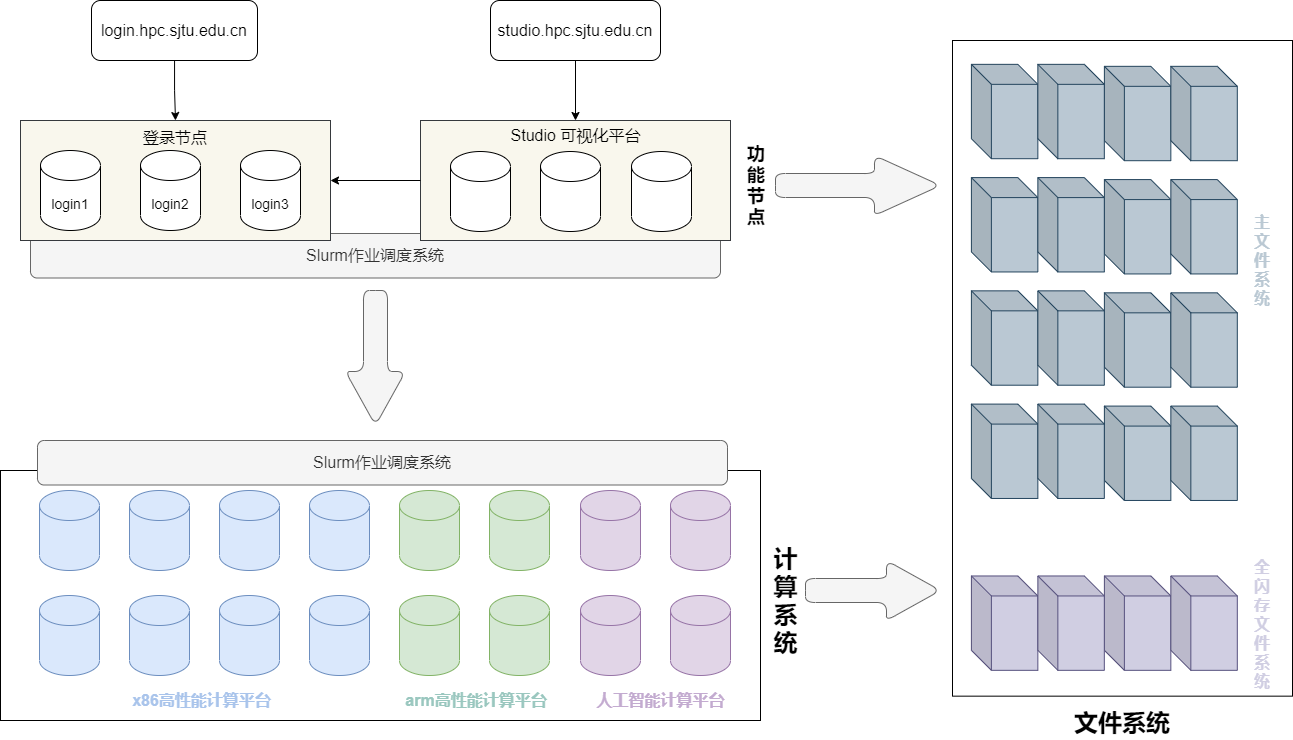
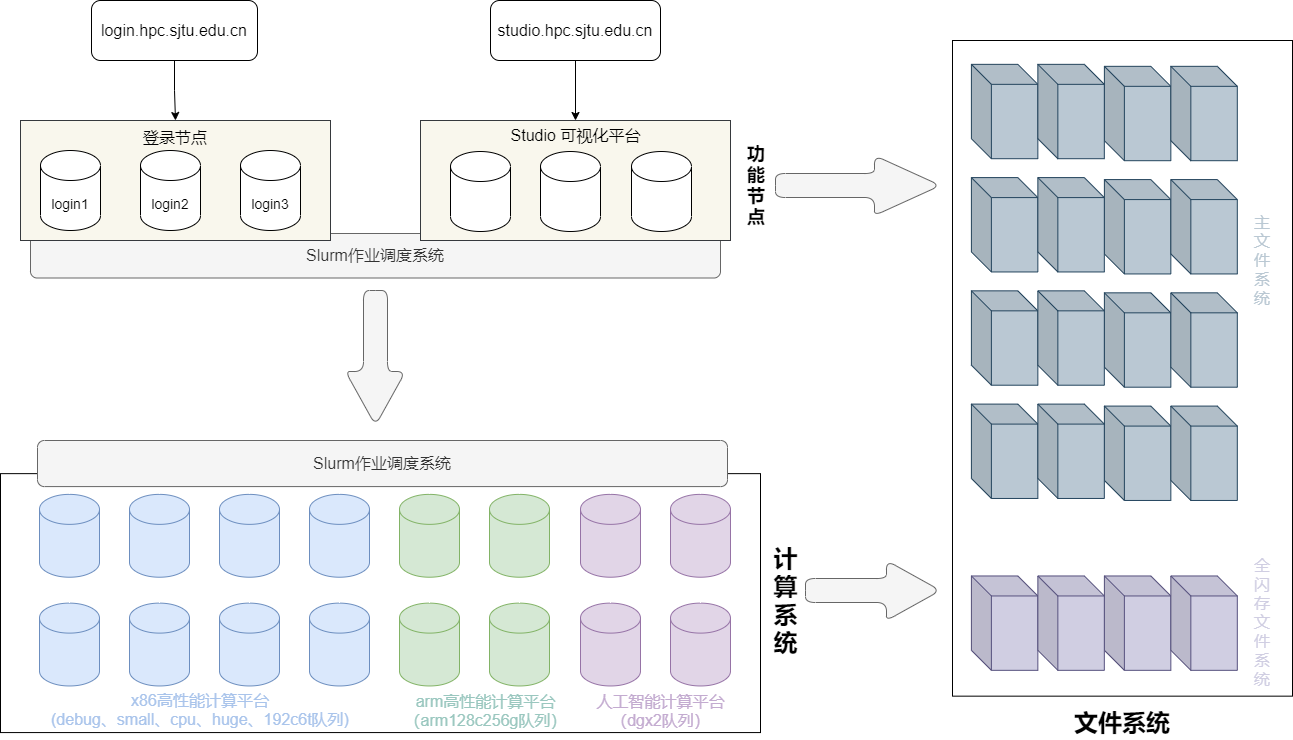
modify system 	modified:   docs/img/system.png 	modified:   docs/system/computesystem.rst 	modified:   docs/system/filesystem.rst

diff --git a/docs/system/computesystem.rst b/docs/system/computesystem.rst
@@ -10,27 +10,31 @@
 
 高性能计算平台原先由 656 台双路节点 x86 服务器组成，每台服务器配备 40 核（2.5GHz）、192G 内存（12通道 DDR4 2666），共计 26240 个 CPU 核、48T 内存。 双精度理论峰值性能达到了 2.1 PFLOPS，计算节点之间使用 100 Gbps 的 Intel OmniPath 互联，是国内高校和上海地区最快的超算之一。作业系统中调用的 cpu 队列、small 队列和 debug 队列都属于这 656 台服务器。
 
-经过扩展和更新，高性能计算平台新增了 2 台大内存 x86 服务器 和 100 台 arm 架构的华为鲲鹏服务器。2 台大内存服务器组成了 huge 队列，每台拥有 80 核、3T 内存（48通道 DDR4 2666），共计 160 核、6T 内存。100台华为鲲鹏服务器组成了 π 集群中新的国产 arm 计算平台，命名为 arm128c256g 队列，每台服务器配备 128 核（2.6 GHz）、256G 内存（16通道 DDR4 2933），共计 12800 核、25T 内存，节点间采用 IfiniBand 高速网络互联。
+经过扩展和更新，高性能计算平台新增了 3 台大内存 x86 服务器 和 100 台 arm 架构的华为鲲鹏服务器。其中 2 台大内存服务器组成了 huge 队列，每台拥有 80 核、3T 内存（48 通道 DDR4 2666），共计 160 核、6T 内存。另外 1 台大内存服务器组成了 192c6t 队列，拥有 192 核、6T 内存（98 通道 DDR4 2666）。100台华为鲲鹏服务器组成了 π 集群中新的国产 arm 计算平台，命名为 arm128c256g 队列，每台服务器配备 128 核（2.6 GHz）、256G 内存（16通道 DDR4 2933），共计 12800 核、25T 内存，节点间采用 IfiniBand 高速网络互联。
 
 因 x86 平台和 arm 平台 CPU 架构不同，计算应用和软件库都需要重新编译。
 
 下面列出了高性能计算平台具体的硬件信息：
 
-======   ================  ==================================================================   =======
-平台      队列              参数                                                                 数量
-======   ================  ==================================================================   =======
-x86      debug/small/cpu   CPU: 2 x Intel Xeon Scalable Cascade Lake 6248(2.5GHz, 20 cores)      656
+================  ======   ==================================================================   =======
+队列               架构     参数                                                                 数量
+================  ======   ==================================================================   =======
+debug/small/cpu    x86     CPU: 2 x Intel Xeon Scalable Cascade Lake 6248(2.5GHz, 20 cores)      656
                            
                            Mem:12 x Samsung 16GB DDR4 ECC REG 2666
          
-x86      huge              CPU: 4 x Intel Xeon Scalable SkyLake 6148(2.4GHz, 20 cores)           2
+huge               x86     CPU: 4 x Intel Xeon Scalable SkyLake 6148(2.4GHz, 20 cores)           2
                            
-                           Mem: 48 x Hynix 64G DDR4 ECC REG 2666
+                           Mem: 48 x Hynix 64GB DDR4 ECC REG 2666
 
-arm      arm128c256g       CPU: 2 x HiSilicon Kunpeng 920-6426(2600MHz, 64cores)                 100
+192c6t             x86     CPU: 8 x Intel Xeon Platinum 8260(2.4GHz，24 cores)                   1
+                  
+                           Mem: 98 x Samsung 64GB DDR4 2666
+
+arm128c256g        arm     CPU: 2 x HiSilicon Kunpeng 920-6426(2600MHz, 64cores)                 100
                            
                            Mem: 16 x Samsung 16GB DDR4 2933
-======   ================  ==================================================================   =======
+================  ======   ==================================================================   =======
 
 
 人工智能计算平台

diff --git a/docs/system/filesystem.rst b/docs/system/filesystem.rst
@@ -62,3 +62,103 @@ Lustre最常用于高性能计算HPC，世界超级计算机TOP 10中的70%、TO
 
 作业使用示例
 ------------
+
+我们使用生信 WES 分析流程为例，该流程从测序文件开始，经 bwa 比对、samtools处理，然后用 GATK 检测变异（部分步骤）。 原代码如下：
+
+.. code:: bash
+
+    #!/bin/bash
+
+    #SBATCH --job-name=WES
+    #SBATCH --partition=cpu
+    #SBATCH --output=%j.out
+    #SBATCH --error=%j.err
+    #SBATCH -N 1
+    #SBATCH --ntasks-per-node=40
+    #SBATCH --exclusive
+
+    echo "##### 加载相关软件 #####"
+    module load bwa samtools  
+    module load miniconda3 && source activate 10_24  # gatk-4.1.9.0
+
+    echo "##### 设置变量 #####"
+    REFDIR=$HOME/med/annotation/gatk/hg19  # 参考基因组和注释文件目录
+    SAMPLEDIR=$HOME/med/testnor  # 样本目录
+
+    WORKDIR=$HOME/WES_TEST  # 工作目录
+    TMPDIR=$WORKDIR/tmpdir  # 临时缓存目录
+    mkdir -p $WORKDIR
+    mkdir -p $TMPDIR
+
+    SampleID=test  # 样本名
+
+    cd $WORKDIR
+
+    echo "##### bwa 比对 #####"
+    bwa mem -M -t 40 \
+    ${REFDIR}/ucsc.hg19.fasta \
+    ${SAMPLEDIR}/${SampleID}_1.fastq.gz \
+    ${SAMPLEDIR}/${SampleID}_2.fastq.gz \
+    | gzip -3 > ${SampleID}_mem.sam
+
+    echo "##### samtools 生成bam #####"
+    samtools view -@ 40 -bS ${SampleID}_mem.sam \
+    | samtools sort -@ 40 > ${SampleID}_mem.sorted.bam
+
+    samtools index ${SampleID}_mem.sorted.bam
+
+    echo "##### gatk 检测变异 #####"
+    gatk ReorderSam \
+    -I ${SampleID}_mem.sorted.bam \
+    -O ${SampleID}_mem.sorted.reorder.bam \
+    -R ${REFDIR}/ucsc.hg19.fasta \
+    --TMP_DIR ${TMPDIR} \
+    --VALIDATION_STRINGENCY LENIENT \
+    --SEQUENCE_DICTIONARY ${REFDIR}/ucsc.hg19.dict \
+    --CREATE_INDEX true
+
+    gatk MarkDuplicates \
+    -I ${SampleID}_mem.sorted.reorder.bam \
+    -O ${SampleID}_mem.sorted.reorder.rmdup.bam \
+    --TMP_DIR ${TMPDIR} \
+    --REMOVE_DUPLICATES false \
+    --ASSUME_SORTED true \
+    --METRICS_FILE ${SampleID}_mem.sorted.reorder.markduplicates_metrics.txt \
+    --OPTICAL_DUPLICATE_PIXEL_DISTANCE 2500 \
+    --VALIDATION_STRINGENCY LENIENT \
+    --CREATE_INDEX true
+
+    gatk BaseRecalibrator \
+    -R ${REFDIR}/ucsc.hg19.fasta \
+    --tmp-dir ${TMPDIR} \
+    -L ${REFDIR}/hg19.interval_list.bed \
+    --known-sites ${REFDIR}/1000G_phase3_v4_20130502.hg19.sites.indels.vcf \
+    --known-sites ${REFDIR}/Mills_and_1000G_gold_standard.indels.hg19.sites.vcf \
+    -I ${SampleID}_mem.sorted.reorder.rmdup.bam \
+    -O ${SampleID}_mem.sorted.reorder.rmdup.pre.table
+
+    gatk ApplyBQSR \
+    -R ${REFDIR}/ucsc.hg19.fasta \
+    --tmp-dir ${TMPDIR} \
+    -L ${REFDIR}/hg19.interval_list.bed \
+    -I ${SampleID}_mem.sorted.reorder.rmdup.bam \
+    -bqsr ${SampleID}_mem.sorted.reorder.rmdup.pre.table \
+    -O ${SampleID}_mem.sorted.reorder.rmdup.bqsr.bam
+
+    gatk BaseRecalibrator \
+    -R ${REFDIR}/ucsc.hg19.fasta \
+    --tmp-dir ${TMPDIR} \
+    --known-sites ${REFDIR}/1000G_phase3_v4_20130502.hg19.sites.indels.vcf \
+    --known-sites ${REFDIR}/Mills_and_1000G_gold_standard.indels.hg19.sites.vcf \
+    -I ${SampleID}_mem.sorted.reorder.rmdup.bqsr.bam \
+    -O ${SampleID}_mem.sorted.reorder.rmdup.post.table
+
+    gatk PrintReads \
+    -R ${REFDIR}/ucsc.hg19.fasta \
+    --tmp-dir ${TMPDIR} \
+    -L ${REFDIR}/hg19.interval_list.bed \
+    -I ${SampleID}_mem.sorted.reorder.rmdup.bqsr.bam \
+    -O ${SampleID}_mem.sorted.reorder.rmdup.recal.grp.bam
+
+
+过程中，会产生许多中间文件和临时文件。因此，可利用 $SCRATCH 作为临时目录，加快分析过程。只需要把脚本中的 ``WORKDIR=$HOME/WES_TEST`` 修改为 ``WORKDIR=$SCRATCH/WES_TEST``即可。
